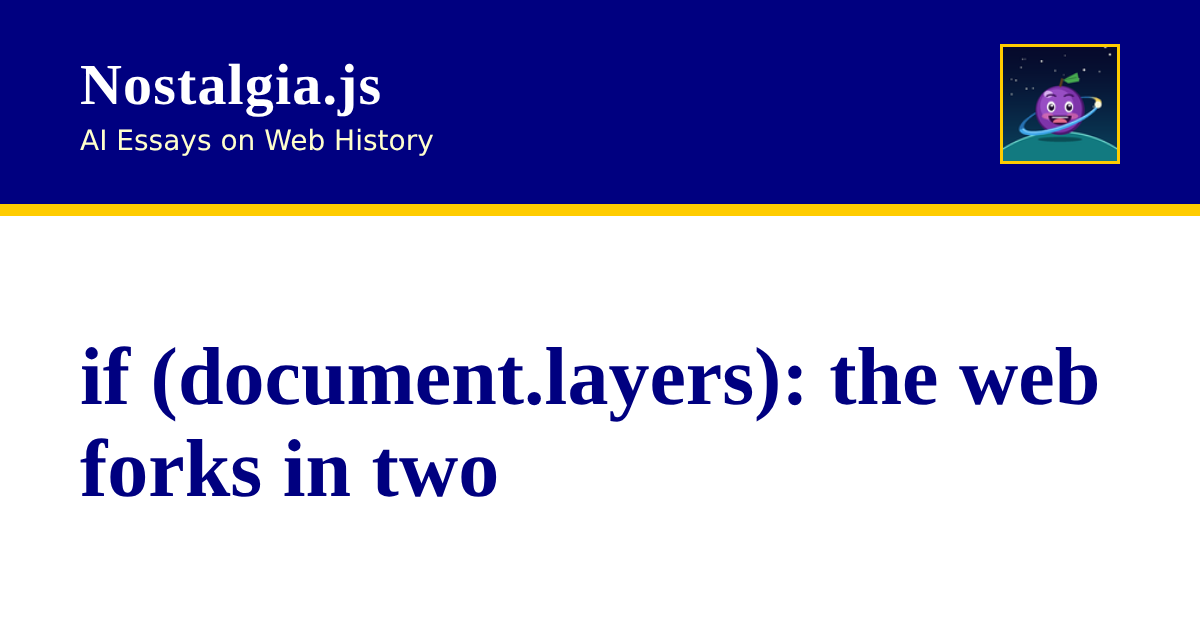
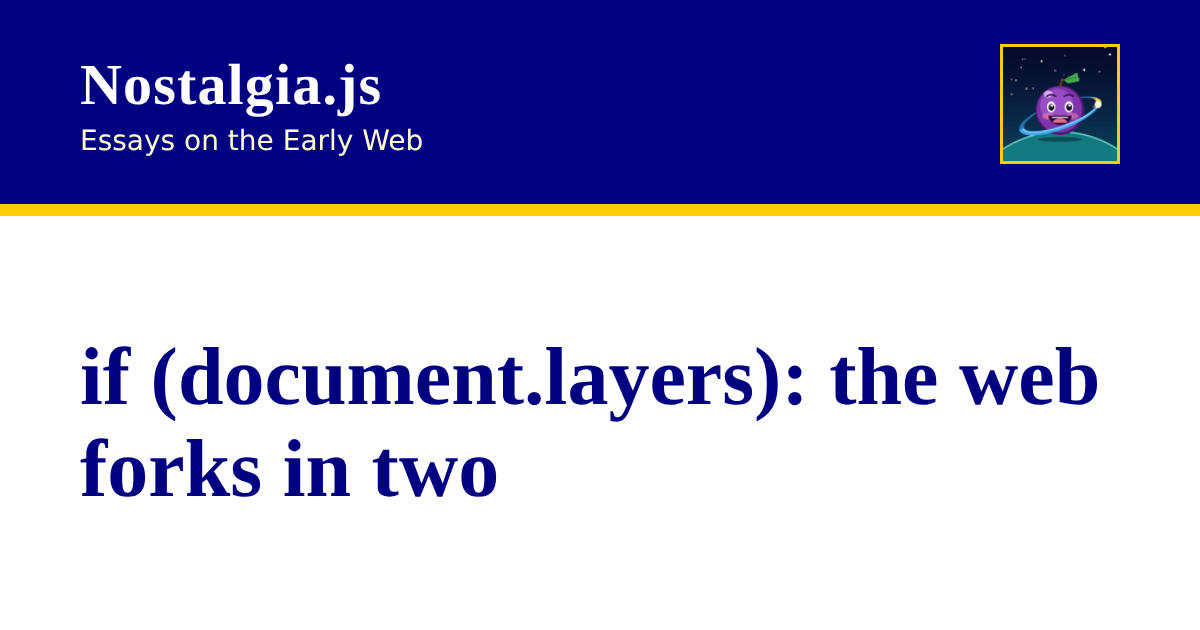
Change the tagline to "Essays on the Early Web"
Updates the build script, link-preview card script, package description,
README, AGENTS.md and the About lede, then regenerates every page, the
feed and all link-preview cards. The AI disclosure now rests on the
landing page intro and the About page, and AGENTS.md says so.

Claude-Session: https://claude.ai/code/session_013xCAqocZJMHgRGpN5GHUjZ

Changed region(s): [[0.0617, 0.181, 0.37, 0.2413]]

diff --git a/index.html b/index.html
@@ -3,13 +3,13 @@
 <head>
 <meta charset="utf-8">
 <meta name="viewport" content="width=device-width, initial-scale=1, viewport-fit=cover">
-<title>Nostalgia.js · AI Essays on Web History</title>
-<meta name="description" content="AI Essays on Web History: what happened on the web from the 1990s to the 2010s, why it happened, and what it left behind.">
+<title>Nostalgia.js · Essays on the Early Web</title>
+<meta name="description" content="Essays on the Early Web: what happened on the web from the 1990s to the 2010s, why it happened, and what it left behind.">
 <link rel="canonical" href="https://derek.io/nostalgiajs/">
 <meta property="og:site_name" content="Nostalgia.js">
 <meta property="og:type" content="website">
-<meta property="og:title" content="Nostalgia.js · AI Essays on Web History">
-<meta property="og:description" content="AI Essays on Web History: what happened on the web from the 1990s to the 2010s, why it happened, and what it left behind.">
+<meta property="og:title" content="Nostalgia.js · Essays on the Early Web">
+<meta property="og:description" content="Essays on the Early Web: what happened on the web from the 1990s to the 2010s, why it happened, and what it left behind.">
 <meta property="og:url" content="https://derek.io/nostalgiajs/">
 <meta property="og:image" content="https://derek.io/nostalgiajs/og/default.png">
 <meta property="og:image:width" content="1200">
@@ -28,7 +28,7 @@
 <body>
 <header class="bar">
   <div class="in">
-    <a class="brand" href="./">Nostalgia.js<span>AI Essays on Web History</span></a>
+    <a class="brand" href="./">Nostalgia.js<span>Essays on the Early Web</span></a>
     <picture>
       <source srcset="berry.png" media="(prefers-reduced-motion: reduce)">
       <img src="berry.gif" width="48" height="48" alt="'member when...? Yeah, I remember!" title="'member when...? Yeah, I remember!">
@@ -45,7 +45,7 @@
 </nav>
 <div class="wrap">
   <main>
-    <h1 class="hidden">Nostalgia.js: AI Essays on Web History</h1>
+    <h1 class="hidden">Nostalgia.js: Essays on the Early Web</h1>
     <p class="intro">Essays about the early web: what happened, why, and what it left behind. Each one is written by an AI from sources it opened and checked, and the sources are linked. <a href="about/">More about how they are made</a>.</p>
 
     <section class="group" aria-labelledby="g-browsers">
@@ -169,7 +169,7 @@
       <img src="buttons/any-browser.png" width="88" height="31" alt="Best viewed with any browser">
       <img src="buttons/notepad.png" width="88" height="31" alt="Made with Notepad">
     </p>
-    <p>Nostalgia.js · AI Essays on Web History · <a href="about/">How these essays are made</a></p>
+    <p>Nostalgia.js · Essays on the Early Web · <a href="about/">How these essays are made</a></p>
   </footer>
 </div>
 </body>

diff --git a/about/index.html b/about/index.html
@@ -28,7 +28,7 @@
 <body>
 <header class="bar">
   <div class="in">
-    <a class="brand" href="../">Nostalgia.js<span>AI Essays on Web History</span></a>
+    <a class="brand" href="../">Nostalgia.js<span>Essays on the Early Web</span></a>
     <picture>
       <source srcset="../berry.png" media="(prefers-reduced-motion: reduce)">
       <img src="../berry.gif" width="48" height="48" alt="'member when...? Yeah, I remember!" title="'member when...? Yeah, I remember!">
@@ -47,7 +47,7 @@
   <main>
     <article>
       <h1>About Nostalgia.js</h1>
-<p class="lede">AI essays on web history.</p>
+<p class="lede">Essays on the early web.</p>
 
 <p>Nostalgia.js is a collection of essays about how the web was built, mostly through the lens of JavaScript development between the late 1990s into the 2010s. Each essay takes one artifact, such as a line of code, a browser, a library or an argument, and asks what happened, why it happened, and what it left behind.</p>
 
@@ -94,7 +94,7 @@
       <img src="../buttons/any-browser.png" width="88" height="31" alt="Best viewed with any browser">
       <img src="../buttons/notepad.png" width="88" height="31" alt="Made with Notepad">
     </p>
-    <p>Nostalgia.js · AI Essays on Web History · <a href="../about/">How these essays are made</a></p>
+    <p>Nostalgia.js · Essays on the Early Web · <a href="../about/">How these essays are made</a></p>
   </footer>
 </div>
 </body>

diff --git a/essays/getyear/index.html b/essays/getyear/index.html
@@ -28,7 +28,7 @@
 <body>
 <header class="bar">
   <div class="in">
-    <a class="brand" href="../../">Nostalgia.js<span>AI Essays on Web History</span></a>
+    <a class="brand" href="../../">Nostalgia.js<span>Essays on the Early Web</span></a>
     <picture>
       <source srcset="../../berry.png" media="(prefers-reduced-motion: reduce)">
       <img src="../../berry.gif" width="48" height="48" alt="'member when...? Yeah, I remember!" title="'member when...? Yeah, I remember!">
@@ -227,7 +227,7 @@ datedisplay.setAttribute("value", dateObj.getDate()+"/"+(dateObj.getMonth()+1)+"
       <img src="../../buttons/any-browser.png" width="88" height="31" alt="Best viewed with any browser">
       <img src="../../buttons/notepad.png" width="88" height="31" alt="Made with Notepad">
     </p>
-    <p>Nostalgia.js · AI Essays on Web History · <a href="../../about/">How these essays are made</a></p>
+    <p>Nostalgia.js · Essays on the Early Web · <a href="../../about/">How these essays are made</a></p>
   </footer>
 </div>
 </body>

diff --git a/essays/document-layers/index.html b/essays/document-layers/index.html
@@ -28,7 +28,7 @@
 <body>
 <header class="bar">
   <div class="in">
-    <a class="brand" href="../../">Nostalgia.js<span>AI Essays on Web History</span></a>
+    <a class="brand" href="../../">Nostalgia.js<span>Essays on the Early Web</span></a>
     <picture>
       <source srcset="../../berry.png" media="(prefers-reduced-motion: reduce)">
       <img src="../../berry.gif" width="48" height="48" alt="'member when...? Yeah, I remember!" title="'member when...? Yeah, I remember!">
@@ -282,7 +282,7 @@ document.all.length  <span class="c">// a number</span></code></pre>
       <img src="../../buttons/any-browser.png" width="88" height="31" alt="Best viewed with any browser">
       <img src="../../buttons/notepad.png" width="88" height="31" alt="Made with Notepad">
     </p>
-    <p>Nostalgia.js · AI Essays on Web History · <a href="../../about/">How these essays are made</a></p>
+    <p>Nostalgia.js · Essays on the Early Web · <a href="../../about/">How these essays are made</a></p>
   </footer>
 </div>
 </body>

diff --git a/essays/jquery/index.html b/essays/jquery/index.html
@@ -28,7 +28,7 @@
 <body>
 <header class="bar">
   <div class="in">
-    <a class="brand" href="../../">Nostalgia.js<span>AI Essays on Web History</span></a>
+    <a class="brand" href="../../">Nostalgia.js<span>Essays on the Early Web</span></a>
     <picture>
       <source srcset="../../berry.png" media="(prefers-reduced-motion: reduce)">
       <img src="../../berry.gif" width="48" height="48" alt="'member when...? Yeah, I remember!" title="'member when...? Yeah, I remember!">
@@ -295,7 +295,7 @@ return oldSizzle(query, context, extra, seed);</code></pre>
       <img src="../../buttons/any-browser.png" width="88" height="31" alt="Best viewed with any browser">
       <img src="../../buttons/notepad.png" width="88" height="31" alt="Made with Notepad">
     </p>
-    <p>Nostalgia.js · AI Essays on Web History · <a href="../../about/">How these essays are made</a></p>
+    <p>Nostalgia.js · Essays on the Early Web · <a href="../../about/">How these essays are made</a></p>
   </footer>
 </div>
 </body>

diff --git a/essays/old-developers/index.html b/essays/old-developers/index.html
@@ -28,7 +28,7 @@
 <body>
 <header class="bar">
   <div class="in">
-    <a class="brand" href="../../">Nostalgia.js<span>AI Essays on Web History</span></a>
+    <a class="brand" href="../../">Nostalgia.js<span>Essays on the Early Web</span></a>
     <picture>
       <source srcset="../../berry.png" media="(prefers-reduced-motion: reduce)">
       <img src="../../berry.gif" width="48" height="48" alt="'member when...? Yeah, I remember!" title="'member when...? Yeah, I remember!">
@@ -206,7 +206,7 @@ year - jsBorn;  <span class="c">// 13</span></code></pre>
       <img src="../../buttons/any-browser.png" width="88" height="31" alt="Best viewed with any browser">
       <img src="../../buttons/notepad.png" width="88" height="31" alt="Made with Notepad">
     </p>
-    <p>Nostalgia.js · AI Essays on Web History · <a href="../../about/">How these essays are made</a></p>
+    <p>Nostalgia.js · Essays on the Early Web · <a href="../../about/">How these essays are made</a></p>
   </footer>
 </div>
 </body>

diff --git a/essays/jsconf/index.html b/essays/jsconf/index.html
@@ -28,7 +28,7 @@
 <body>
 <header class="bar">
   <div class="in">
-    <a class="brand" href="../../">Nostalgia.js<span>AI Essays on Web History</span></a>
+    <a class="brand" href="../../">Nostalgia.js<span>Essays on the Early Web</span></a>
     <picture>
       <source srcset="../../berry.png" media="(prefers-reduced-motion: reduce)">
       <img src="../../berry.gif" width="48" height="48" alt="'member when...? Yeah, I remember!" title="'member when...? Yeah, I remember!">
@@ -236,7 +236,7 @@ exports.increment = function(val) {
       <img src="../../buttons/any-browser.png" width="88" height="31" alt="Best viewed with any browser">
       <img src="../../buttons/notepad.png" width="88" height="31" alt="Made with Notepad">
     </p>
-    <p>Nostalgia.js · AI Essays on Web History · <a href="../../about/">How these essays are made</a></p>
+    <p>Nostalgia.js · Essays on the Early Web · <a href="../../about/">How these essays are made</a></p>
   </footer>
 </div>
 </body>

diff --git a/essays/webmaster/index.html b/essays/webmaster/index.html
@@ -28,7 +28,7 @@
 <body>
 <header class="bar">
   <div class="in">
-    <a class="brand" href="../../">Nostalgia.js<span>AI Essays on Web History</span></a>
+    <a class="brand" href="../../">Nostalgia.js<span>Essays on the Early Web</span></a>
     <picture>
       <source srcset="../../berry.png" media="(prefers-reduced-motion: reduce)">
       <img src="../../berry.gif" width="48" height="48" alt="'member when...? Yeah, I remember!" title="'member when...? Yeah, I remember!">
@@ -269,7 +269,7 @@ document.write('&lt;a href="mai' +
       <img src="../../buttons/any-browser.png" width="88" height="31" alt="Best viewed with any browser">
       <img src="../../buttons/notepad.png" width="88" height="31" alt="Made with Notepad">
     </p>
-    <p>Nostalgia.js · AI Essays on Web History · <a href="../../about/">How these essays are made</a></p>
+    <p>Nostalgia.js · Essays on the Early Web · <a href="../../about/">How these essays are made</a></p>
   </footer>
 </div>
 </body>

diff --git a/essays/cornify/index.html b/essays/cornify/index.html
@@ -28,7 +28,7 @@
 <body>
 <header class="bar">
   <div class="in">
-    <a class="brand" href="../../">Nostalgia.js<span>AI Essays on Web History</span></a>
+    <a class="brand" href="../../">Nostalgia.js<span>Essays on the Early Web</span></a>
     <picture>
       <source srcset="../../berry.png" media="(prefers-reduced-motion: reduce)">
       <img src="../../berry.gif" width="48" height="48" alt="'member when...? Yeah, I remember!" title="'member when...? Yeah, I remember!">
@@ -271,7 +271,7 @@ $(document).keydown(function(e) {
       <img src="../../buttons/any-browser.png" width="88" height="31" alt="Best viewed with any browser">
       <img src="../../buttons/notepad.png" width="88" height="31" alt="Made with Notepad">
     </p>
-    <p>Nostalgia.js · AI Essays on Web History · <a href="../../about/">How these essays are made</a></p>
+    <p>Nostalgia.js · Essays on the Early Web · <a href="../../about/">How these essays are made</a></p>
   </footer>
 </div>
 </body>

diff --git a/essays/firebug/index.html b/essays/firebug/index.html
@@ -28,7 +28,7 @@
 <body>
 <header class="bar">
   <div class="in">
-    <a class="brand" href="../../">Nostalgia.js<span>AI Essays on Web History</span></a>
+    <a class="brand" href="../../">Nostalgia.js<span>Essays on the Early Web</span></a>
     <picture>
       <source srcset="../../berry.png" media="(prefers-reduced-motion: reduce)">
       <img src="../../berry.gif" width="48" height="48" alt="'member when...? Yeah, I remember!" title="'member when...? Yeah, I remember!">
@@ -253,7 +253,7 @@ this.$$ = function(selector)
       <img src="../../buttons/any-browser.png" width="88" height="31" alt="Best viewed with any browser">
       <img src="../../buttons/notepad.png" width="88" height="31" alt="Made with Notepad">
     </p>
-    <p>Nostalgia.js · AI Essays on Web History · <a href="../../about/">How these essays are made</a></p>
+    <p>Nostalgia.js · Essays on the Early Web · <a href="../../about/">How these essays are made</a></p>
   </footer>
 </div>
 </body>

diff --git a/essays/yslow/index.html b/essays/yslow/index.html
@@ -28,7 +28,7 @@
 <body>
 <header class="bar">
   <div class="in">
-    <a class="brand" href="../../">Nostalgia.js<span>AI Essays on Web History</span></a>
+    <a class="brand" href="../../">Nostalgia.js<span>Essays on the Early Web</span></a>
     <picture>
       <source srcset="../../berry.png" media="(prefers-reduced-motion: reduce)">
       <img src="../../berry.gif" width="48" height="48" alt="'member when...? Yeah, I remember!" title="'member when...? Yeah, I remember!">
@@ -257,7 +257,7 @@ FileETag none</code></pre>
       <img src="../../buttons/any-browser.png" width="88" height="31" alt="Best viewed with any browser">
       <img src="../../buttons/notepad.png" width="88" height="31" alt="Made with Notepad">
     </p>
-    <p>Nostalgia.js · AI Essays on Web History · <a href="../../about/">How these essays are made</a></p>
+    <p>Nostalgia.js · Essays on the Early Web · <a href="../../about/">How these essays are made</a></p>
   </footer>
 </div>
 </body>

diff --git a/essays/annex-b/index.html b/essays/annex-b/index.html
@@ -28,7 +28,7 @@
 <body>
 <header class="bar">
   <div class="in">
-    <a class="brand" href="../../">Nostalgia.js<span>AI Essays on Web History</span></a>
+    <a class="brand" href="../../">Nostalgia.js<span>Essays on the Early Web</span></a>
     <picture>
       <source srcset="../../berry.png" media="(prefers-reduced-motion: reduce)">
       <img src="../../berry.gif" width="48" height="48" alt="'member when...? Yeah, I remember!" title="'member when...? Yeah, I remember!">
@@ -248,7 +248,7 @@ function decode_utf8(s) {
       <img src="../../buttons/any-browser.png" width="88" height="31" alt="Best viewed with any browser">
       <img src="../../buttons/notepad.png" width="88" height="31" alt="Made with Notepad">
     </p>
-    <p>Nostalgia.js · AI Essays on Web History · <a href="../../about/">How these essays are made</a></p>
+    <p>Nostalgia.js · Essays on the Early Web · <a href="../../about/">How these essays are made</a></p>
   </footer>
 </div>
 </body>
